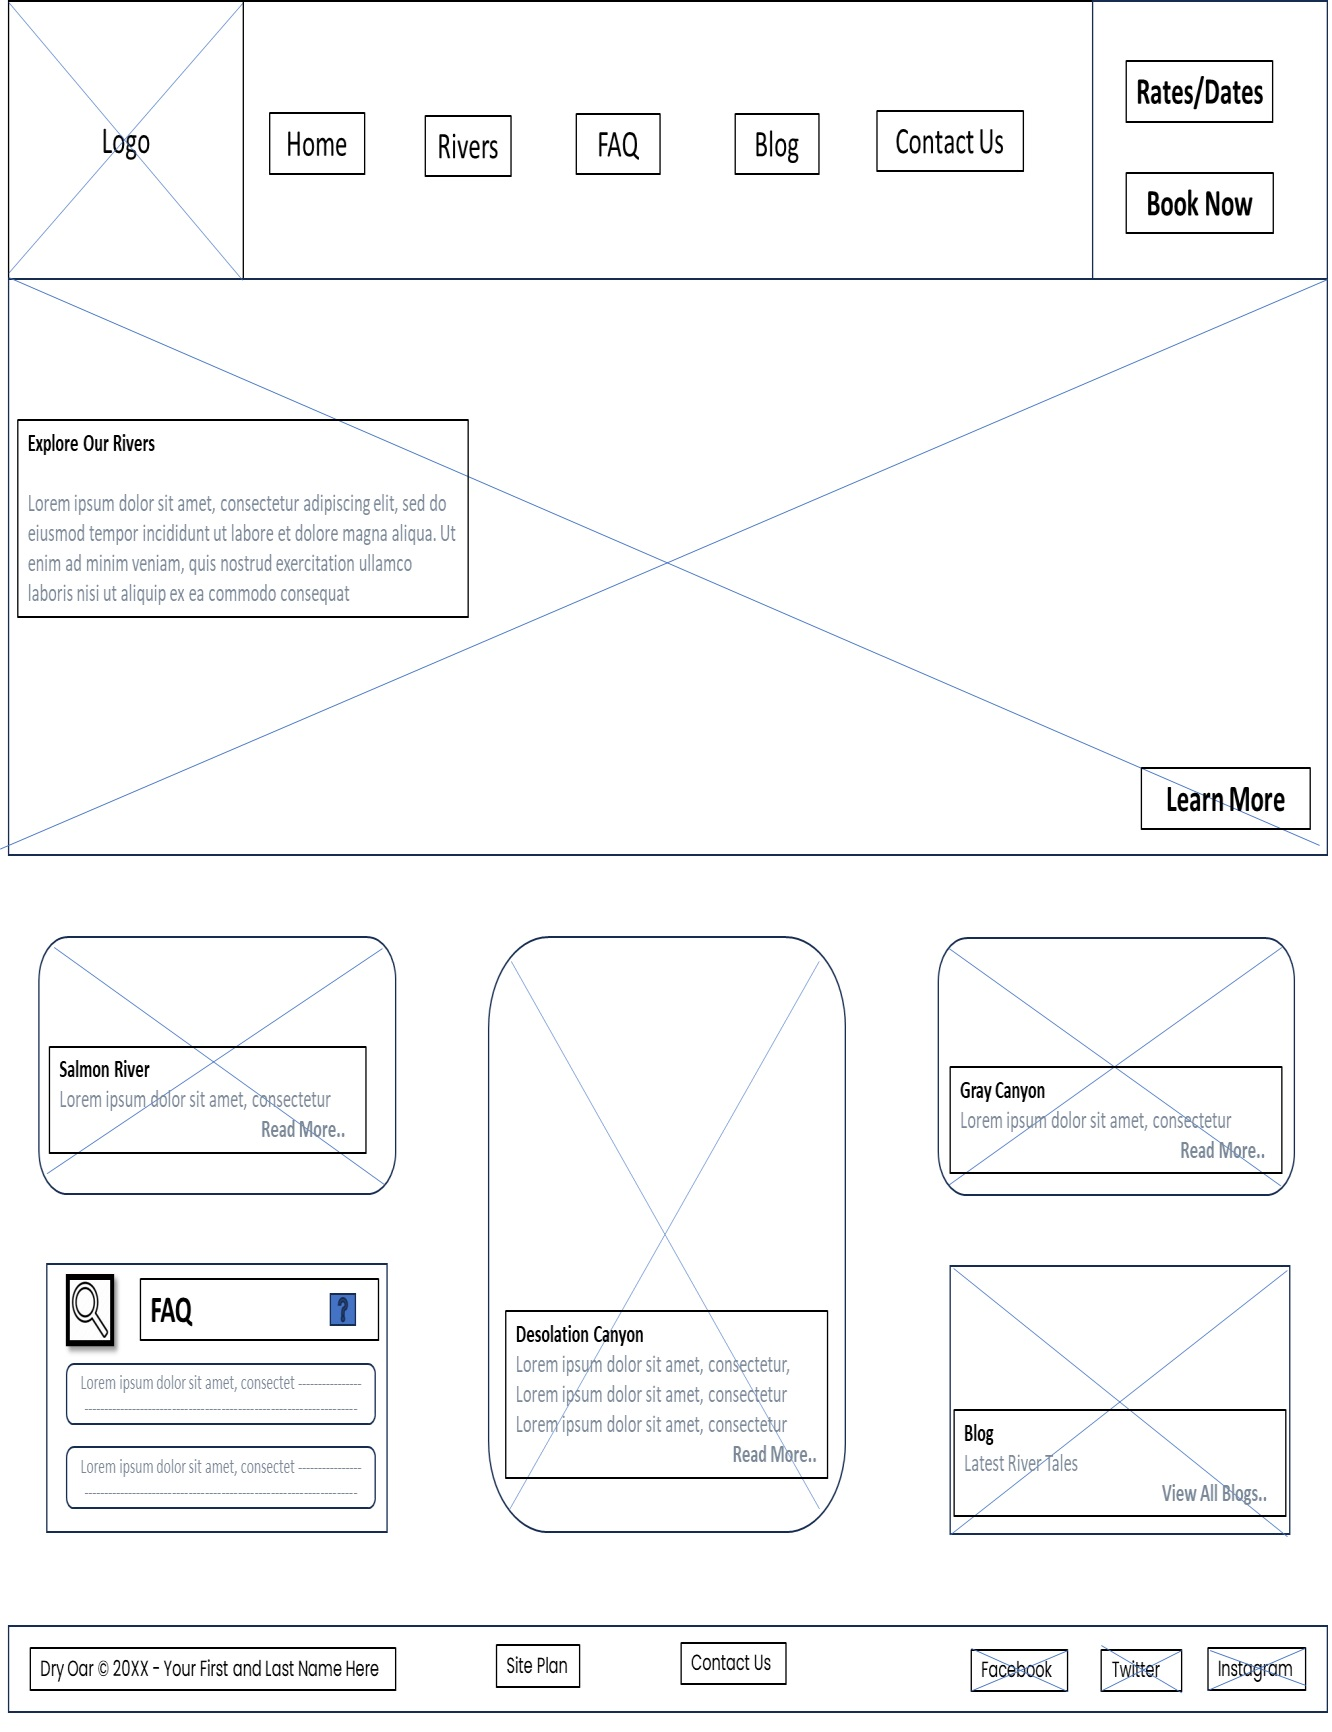
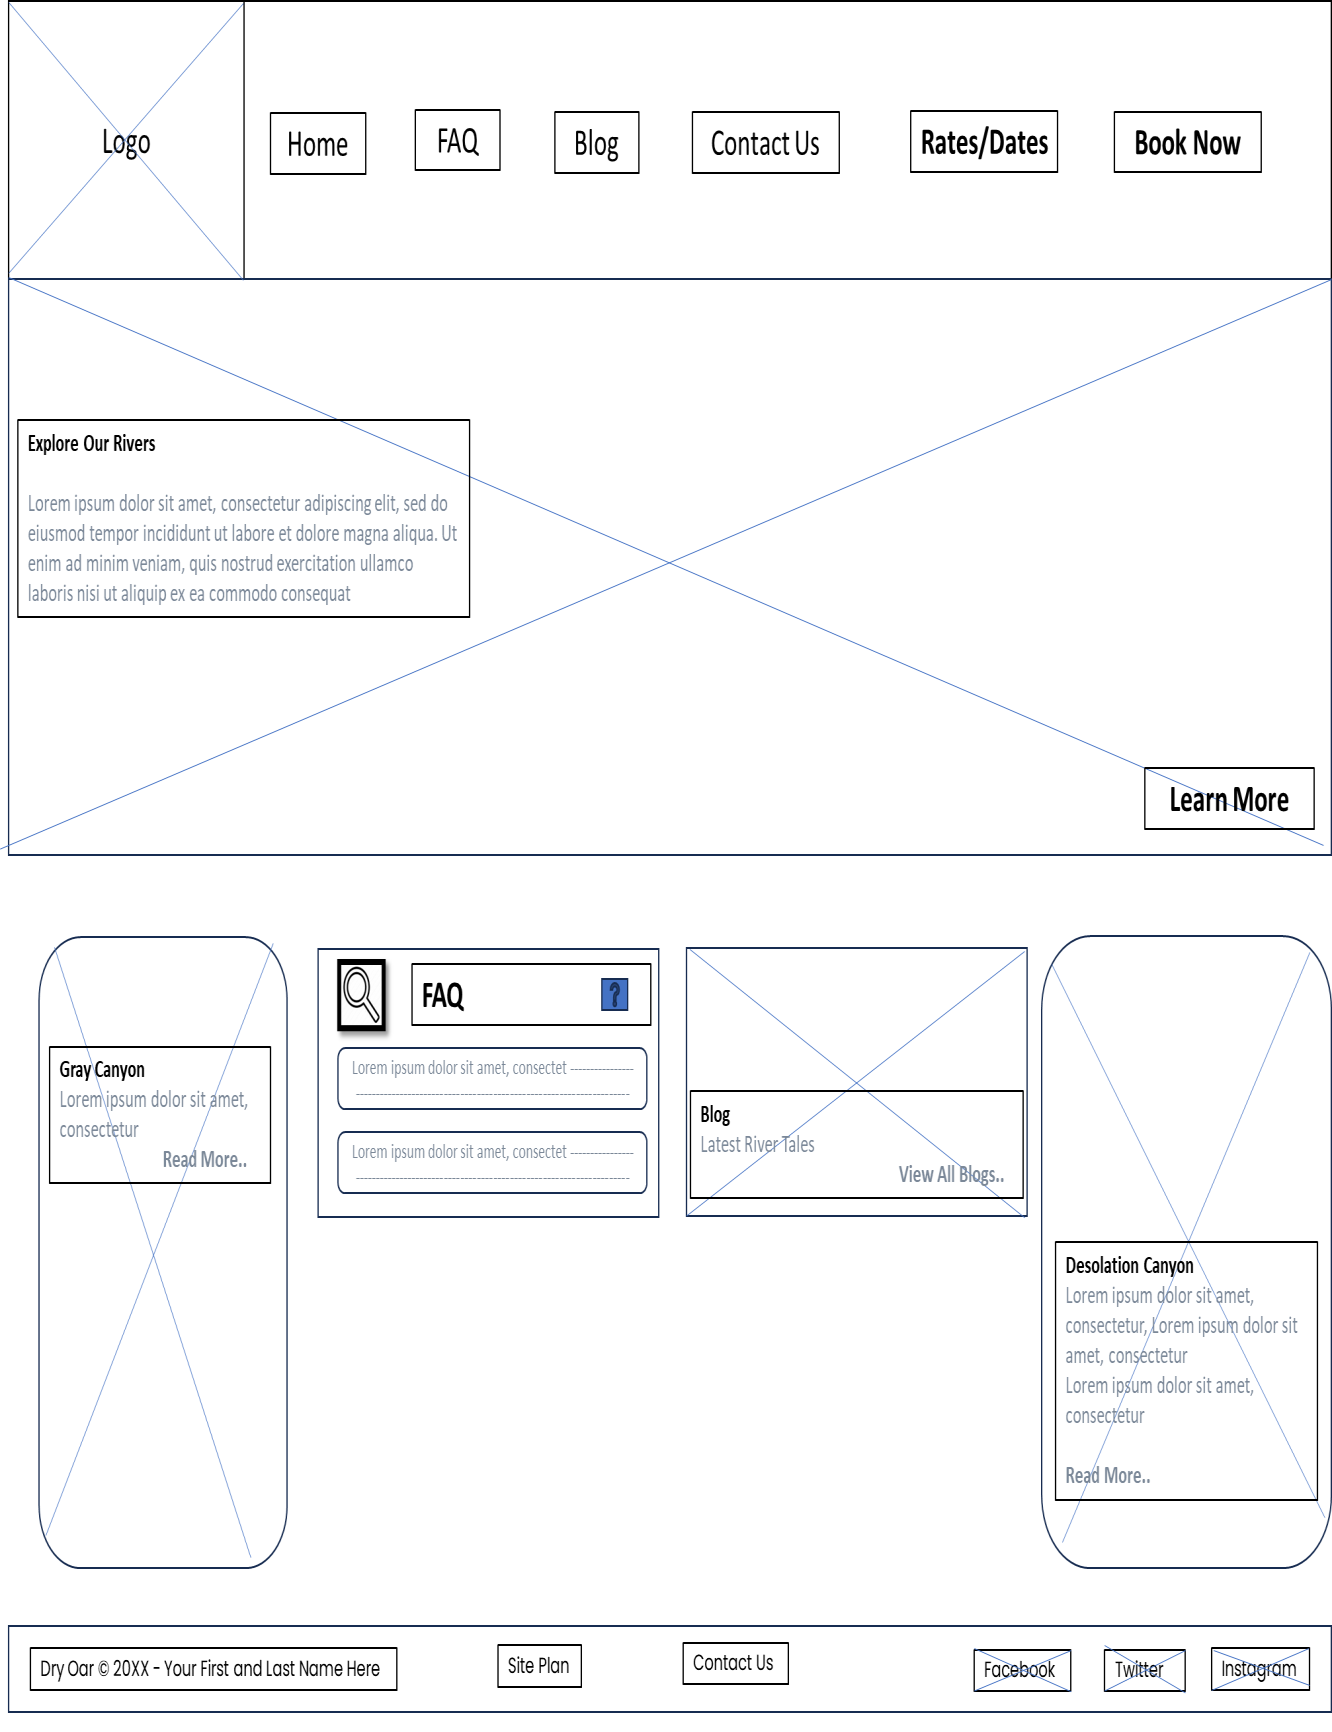
W09 Assignment fixes

diff --git a/aboutme/wwr/styles/style.css b/aboutme/wwr/styles/style.css
@@ -31,23 +31,15 @@ nav a.button:hover {
     text-decoration: none; /* Remove text underline on hover */
 }
 
-@media screen and (max-width: 900px) {
-    nav a.button {
-        display: block; /* Stack buttons on smaller screens */
-        margin: 10px 0; /* Add some margin between stacked buttons */
-    }
-}
+
 
 .home-grid2 {
-  display: grid;
-  grid-template-columns: repeat(3); /* creates 3 columns */
-  gap: 20px; /* adjust the gap as needed */
+    display: grid;
+    grid-template-columns: repeat(10, 1fr);
+    gap: 20px; /* adjust the gap as needed */
 }
 
-.camping-card.card, .rapids-card.card {
-    display: flex;
-    flex-direction: column-reverse; /* For Blog card */
-}
+
 
 .camping-card.card {
     grid-column: span 2; /* FAQ card takes full width */
@@ -109,7 +101,7 @@ nav a.button:hover {
     background-color: #007a9b;
 }
 
-@media screen and (max-width: 992px) {
+@media screen and (max-width: 900px) {
     .home-grid2 {
         grid-template-columns: 1fr; /* Stack the cards on smaller screens */
     }
@@ -243,7 +235,7 @@ h4 {
 
 .home-grid {
     display: grid;
-    grid-template-columns: repeat(10, 1fr,1fr,1fr);
+    grid-template-columns: repeat(10, 1fr);
 }
 
 .rivers-card, .camping-card, .rapids-card {
@@ -381,21 +373,23 @@ footer .social img {
     #hero {
         margin-top: 0;
     }
-    #hero-msg {
+    #hero-msg, #hero-text{
         margin-top: 0;
     }
-    #hero-msg h4 {
+    #hero-msg h4, #hero-text h1, #hero-text p{
         display: none;
         color: white;
     }
-    .home-title {
+    .home-title{
         font-size: 25px;
         color: #6f7364;
     }
+    
     .rivers-card, .camping-card, .rapids-card { 
         margin: 50px auto;
         width: 60%;
     }
+
     #background {
         display: none;
     }

diff --git a/aboutme/wwr/white-water-rafting.html b/aboutme/wwr/white-water-rafting.html
@@ -26,7 +26,7 @@
             <h1 class="home-title">Have An Adventure</h1>
             <h4>Make Memories with Dry Oar</h4>
             <div class='button-box'>
-                <a class='book' href="contactus.html">Book Now</a>
+                <a class='book' href="#">Book Now</a>
             </div>
         </section>
     </div>

diff --git a/aboutme/wwr/rivers.html b/aboutme/wwr/rivers.html
@@ -2,7 +2,8 @@
 <html lang="en">
 <head>
   <meta charset="UTF-8">
-  <title>River</title>
+  <meta name="viewport" content="width=device-width, initial-scale=1.0">
+  <title>Rivers</title>
   <link rel="stylesheet" href="styles/style.css">
 </head>
 <body>
